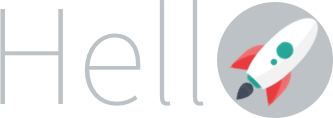
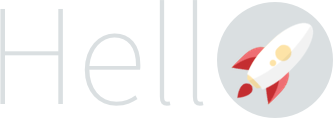
Theme changed

diff --git a/source/stylesheets/theme.scss b/source/stylesheets/theme.scss
@@ -2,11 +2,17 @@
 
 $white: #fff;
 $green: rgb(119,201,119);
-$darken-green: rgb(38, 166, 154);
-$orange: tomato;
+$darken-green: #FFF6D9;
+$orange: lighten(#570026, 20%);
 $red: rgb(238, 110, 115);
 $grey: rgb(190,195,199);
 $dark-grey: darken($grey, 20%);
+
+$main-color: lighten(#570026, 20%);
+$second-color: #C42D30;
+$light-second-color: lighten($second-color, 15%);
+$third-color: #DADFE1;
+$light-third-color: lighten($third-color, 7%);
 
 i {
   &.small { font-size: 2rem; }
@@ -19,18 +25,18 @@ html {
 }
 
 body {
-  background-color: $white;
+  background-color: $light-third-color;
   padding-top: 64px;
 }
 
 h1 {
-  color: $white;
+  color: $second-color;
   font-size: 3rem;
   margin: 10px 0;
 }
 
 strong {
-  color: $orange;
+  color: $second-color;
 }
 
 .top-border {
@@ -120,7 +126,7 @@ section#introduction {
     width: 100%;
     height: 100%;
     background-color: rgba(0,0,0,0.7);
-    color: rgba(255,255,255,0.8);
+    color: rgba(255,255,255, 0.8);
     display: flex;
     display: -webkit-flex;
     align-items: center;
@@ -132,7 +138,7 @@ section#introduction {
       font-style:  italic;
       font-weight: 200;
       font-size: 6rem;
-      color: $white;
+      color: opacify($light-second-color, 0.8);
     }
   }
 }
@@ -144,8 +150,8 @@ section#introduction {
 section#what {
   margin-top: -50px;
 
-  h1 {
-    color: $orange;
+  h1, h2 {
+    color: $light-second-color;
   }
 
   p {
@@ -153,7 +159,7 @@ section#what {
   }
 
   .section {
-    background-color: $white;
+    background-color: $light-third-color;
   }
 
   #map-container {
@@ -175,7 +181,7 @@ section#what {
     cursor: pointer;
 
     p {
-      color: $white;
+      color: rgba(255,255,255,0.8);
       font-size: 1.6rem;
     }
   }
@@ -186,7 +192,7 @@ section#what {
   }
 
   .top-border {
-    border-color: transparent transparent $white transparent;
+    border-color: transparent transparent $light-third-color transparent;
   }
 }
 
@@ -198,15 +204,15 @@ section#values {
   margin-bottom: -50px;
 
   h1 {
-    color: $white;
+    color: $light-third-color;
   }
 
   .top-border {
-    border-color: transparent transparent $darken-green transparent;
+    border-color: transparent transparent lighten($second-color, 10%) transparent;
   }
 
   .section {
-  background-color: $darken-green;
+  background-color: lighten($second-color, 10%);
 
     .browser {
       width: 100%;
@@ -255,18 +261,18 @@ section#values {
     width: 100%;
     display: inline-block;
     border-radius: 0 0 5px 5px;
-    background-color: $red;
+    background-color: $white;
 
     &>div {
       margin-bottom: 10px;
     }
 
     .values-item {
-      color: $white;
-      padding: 0 25px;
+      color: $dark-grey;
+      padding: 5px 25px;
 
       .icon-container {
-        background-color: $white;
+        background-color: $third-color;
         display: block;
         width: 6rem;
         height: 6rem;
@@ -275,19 +281,21 @@ section#values {
         -webkit-border-radius: 50%;
         -moz-border-radius: 50%;
 
-        i { color: $green; }
+        i { color: $light-second-color; }
       }
 
       h2 {
-        font-size: 2rem;
-        line-height: 2rem;
+        font-size: 1.8rem;
+        line-height: 1.8rem;
         margin: 10px 0;
+        color: $light-second-color;
+        font-weight: 600;
       }
 
       p {
         strong {
           font-weight: bold;
-          color: $white;
+          color: $light-second-color;
         }
       }
     }
@@ -301,7 +309,7 @@ section#values {
 section#who {
 
   h1 {
-    color: $orange;
+    color: $light-second-color;
   }
 
   p {
@@ -309,11 +317,11 @@ section#who {
   }
 
   .section {
-    background-color: $white;
+    background-color: $light-third-color;
   }
 
   .top-border {
-    border-color: transparent transparent $white transparent;
+    border-color: transparent transparent $light-third-color transparent;
   }
 
   .user-card {
@@ -324,14 +332,20 @@ section#who {
     align-items: center;
     -webkit-align-items: center;
     padding: 20px;
+    background-color: $white;
 
     .picture {
-      width: 128px;
-      height: 128px;
+      width: 192px;
+      height: 192px;
       border-radius: 50%;
       -webkit-border-radius: 50%;
       -moz-border-radius: 50%;
       overflow: hidden;
+
+        &>img {
+          width: 192px;
+          height: 209px;
+        }
     }
 
     .resume {
@@ -362,7 +376,7 @@ section#who {
         -webkit-flex: 1;
 
         .title {
-          color: $orange;
+          color: $second-color;
         }
 
         .text {
@@ -387,6 +401,9 @@ section#who {
 /* FOOTER */
 
 footer {
+
+  background-color: lighten($second-color, 10%);
+
   .social-icons {
     a {
       display: inline-block;
@@ -403,21 +420,35 @@ footer {
       justify-content: center;
       -webkit-justify-content: center;
       font-size: 1.5em;
+      color: $white;
 
       background-color: $white;
       border-radius: 50%;
       -webkit-border-radius: 50%;
       -moz-border-radius: 50%;
 
+      &.facebook {
+        background-color: lighten(rgb(60,91,151), 5%);
+      }
+
       &.facebook:hover {
         background-color: rgb(60,91,151);
         color: $white;
+      }
+
+      &.twitter {
+        background-color: lighten(rgb(89,173,235), 5%);
       }
 
       &.twitter:hover {
         background-color: rgb(89,173,235);
         color: $white;
       }
+
+      &.google {
+        background-color: lighten(rgb(219, 76, 67), 5%);
+      }
+
       &.google:hover {
         background-color: rgb(219, 76, 67);
         color: $white;
